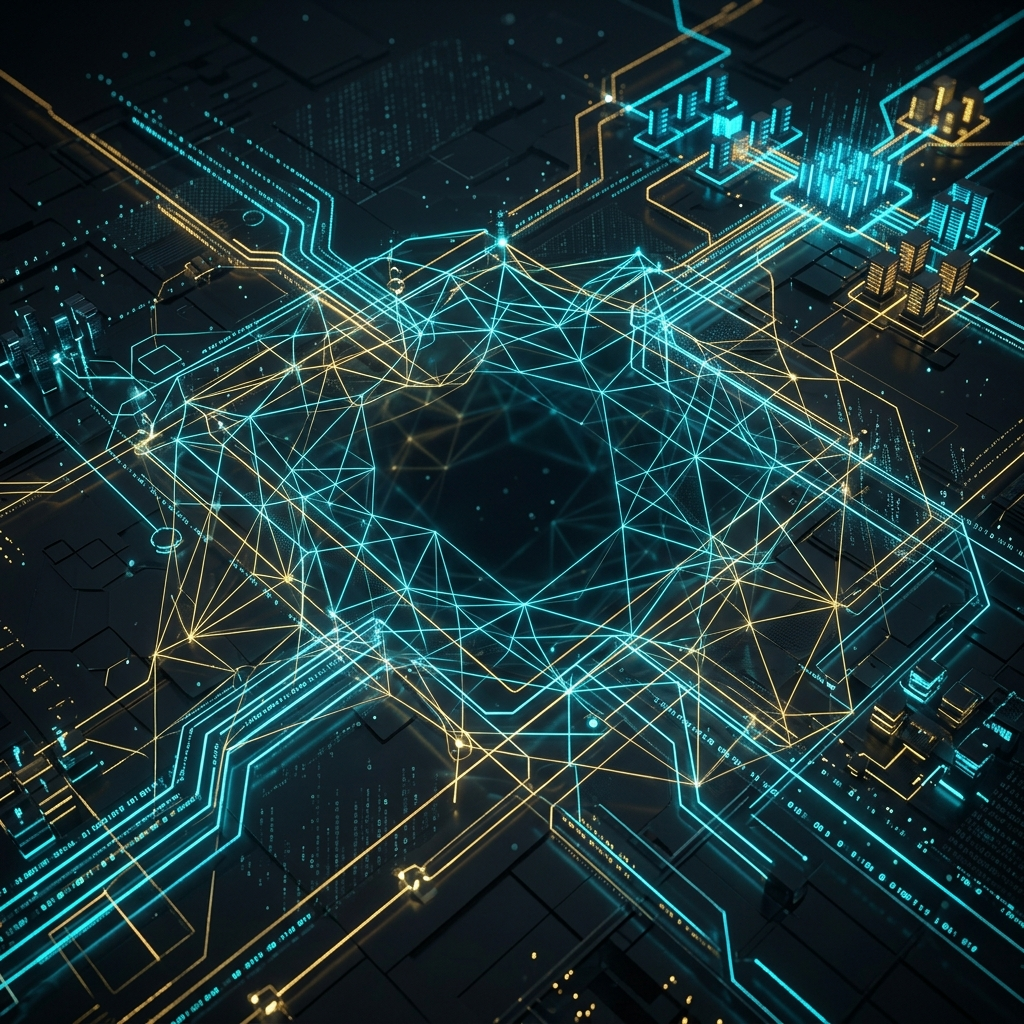
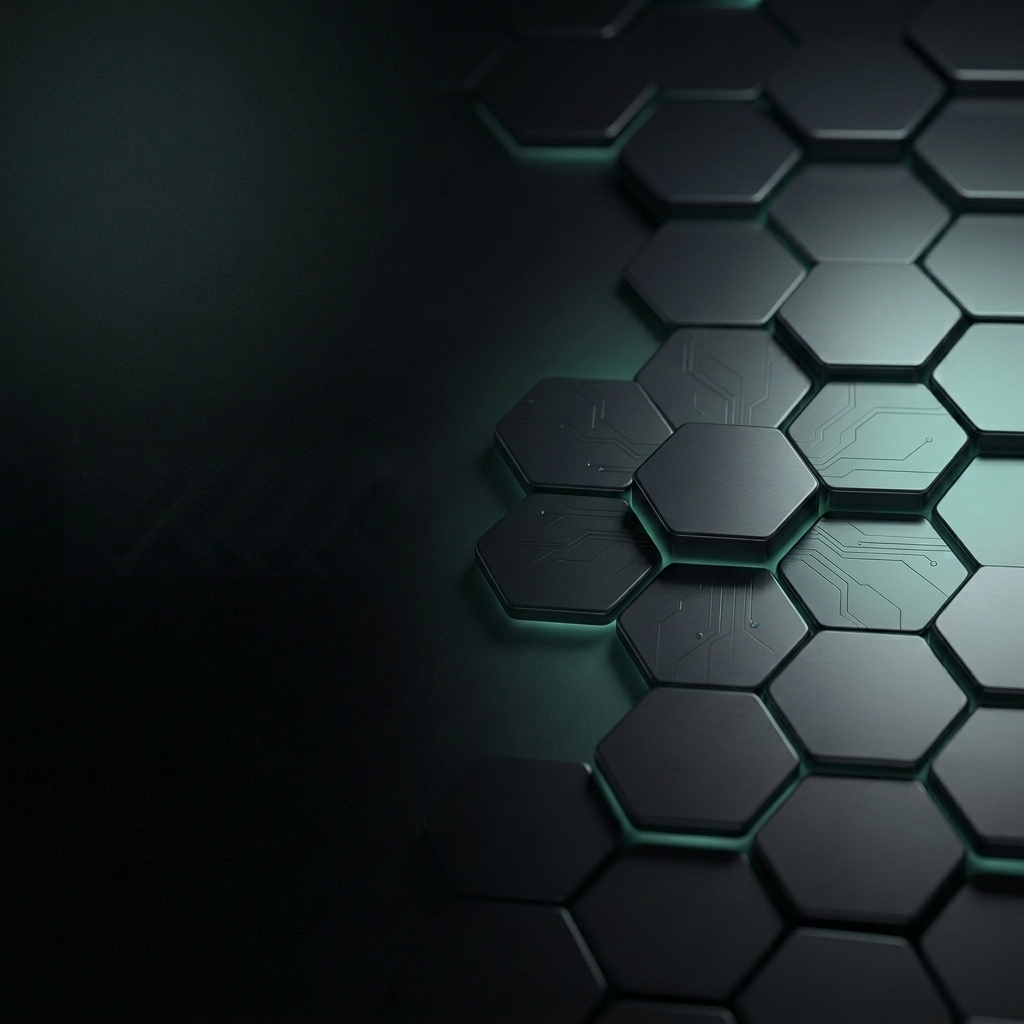
cambio de bg en el hero

diff --git a/index.html b/index.html
@@ -681,10 +681,10 @@
 
   <!-- HERO -->
   <section class="relative w-full pt-36 pb-16 md:pt-44 md:pb-28 overflow-hidden">
-    <!-- Fondo Generado por IA (Cyber Theme) -->
+    <!-- Fondo Generado por IA (Subtle Obsidian & 3D Tech Theme) -->
     <div style="position:absolute; inset:0; z-index:-2; background-image: url('assets/hero_bg.png'); background-size: cover; background-position: center;"></div>
-    <!-- Overlay gradiente oscuro para que el texto resalte -->
-    <div style="position:absolute; inset:0; z-index:-1; background: linear-gradient(to right, rgba(10,15,20,0.95) 0%, rgba(10,15,20,0.6) 100%);"></div>
+    <!-- Overlay sutil para legibilidad impecable -->
+    <div style="position:absolute; inset:0; z-index:-1; background: linear-gradient(to right, rgba(10,15,20,0.85) 0%, rgba(10,15,20,0.45) 60%, rgba(10,15,20,0.2) 100%);"></div>
 
     <div class="relative px-6 md:px-12" style="max-width:1280px; margin:0 auto;">
       <div class="grid grid-cols-1 lg:grid-cols-12 gap-12 items-center">
